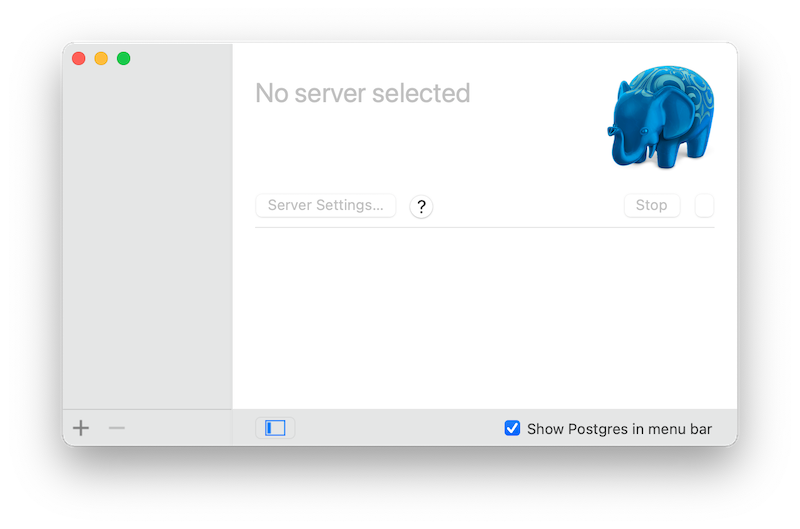
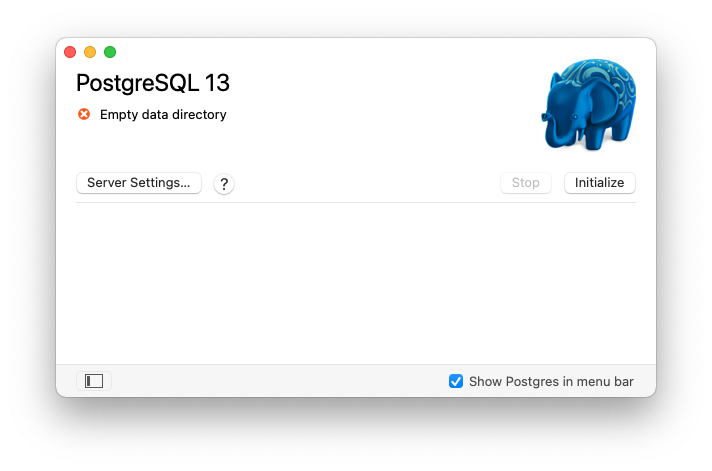
Revised Postgres installation instructions for Mac (Postgres.app 2.4.3).

diff --git a/install-software/installation-mac.md b/install-software/installation-mac.md
@@ -2,21 +2,21 @@
 
 ## Installing R and RStudio
 
-For Mac, the R project provides specific installers that are available at [https://cloud.r-project.org/](https://cloud.r-project.org/). Download the latest installer for your system (you need at least version 4.0), execute it by double-clicking on the file, and follow the installation instructions. 
+For Mac, the R project provides specific installers that are available at [https://cloud.r-project.org/](https://cloud.r-project.org/). Download the latest installer for your system (you need at least version 4.1), execute it by double-clicking on the file, and follow the installation instructions. 
 
 To install RStudio, go to the RStudio website at \url{https://www.rstudio.com/products/rstudio/download/}. There are different versions, the "free" version is sufficient for our purpose. Download the installer, run this file and follow the installation instructions. You should now have R and RStudio installed on your computer. 
 
 ## Installing PostgreSQL and the PostGIS extension
 
-To run the PostgreSQL database server on a Mac, we rely on the excellent *Postgres.app* installer. This is a pre-packaged version the (open-source) PostgreSQL database system and extremely convenient for Mac users to install. 
+To run the PostgreSQL database server on a Mac, we rely on the excellent *Postgres.app* installer. This is a pre-packaged version the (open-source) PostgreSQL database system and makes the installation extremely convenient for Mac users. 
 
-Download the installer from the [Postgres.app website](https://postgresapp.com/downloads.html). We recommend that you choose version 2.4.1 of Postgres.app, which includes version 13 of the PostgreSQL database server. Conveniently for our purpose, Postgres.app contains also the PostGIS spatial extension for PostgreSQL, which we need in the chapter on spatial data. Run the installer by double-clicking the file you downloaded and simply drag-and-drop Postgres.app into your "Applications" folder.
+Download the installer from the [Postgres.app website](https://postgresapp.com/downloads.html). We recommend that you choose version 2.4.3 of Postgres.app, which includes version 13 of the PostgreSQL database server. Conveniently for our purpose, Postgres.app contains also the PostGIS spatial extension for PostgreSQL, which we need in the chapter on spatial data. Run the installer by double-clicking the file you downloaded and simply drag-and-drop Postgres.app into your "Applications" folder.
 
 Once this is done, you can run Postgres.app just like any other Mac application, simply by double-clicking on it in the "Applications" folder. The first time you do this you need to initialize a new server, as this is not done automatically. When you start Postgres.app, the following window comes up:
 
 ![](mac-postgres1.png)
 
-At the bottom left, click the little `+` icon to add a server. Enter a name for the new server, for example "Postgres 13". Select version 13, and leave the default values for the data directory and the port (5432) unchanged. Click "Create Server", and you're done. The new server is not running yet, so you need to start it with the corresponding button in Postgres.app. You can now close the Postgres.app main window. The elephant icon in the main menu bar allows you to quickly start/stop your server.
+At the bottom right, click "Initialize" to configure a new server. You can simply leave the default values for the server name etc (unless you already have PostgreSQL or another server running on port 5432, which is unlikely). The new server is started automatically, and you can now close the Postgres.app main window. If you later want to start/stop the new server, you can do this through Postgress.app or the elephant icon in the main menu bar.
 
 When we later connect to our new server from R, we need to provide a user name and a password. Postgres.app automatically configures the server such that is uses your (short) Mac username for this purpose. If you're unsure what this username is, see [Apple's instructions](https://support.apple.com/en-ae/guide/mac-help/mh35548/11.0/mac/11.0) to find out. By default, there is no password for this user. 
 

diff --git a/install-software/installation-windows.md b/install-software/installation-windows.md
@@ -2,7 +2,7 @@
 
 ## Installing R and RStudio
 
-For Windows, the R project provides specific installers that are available at [https://cloud.r-project.org/](https://cloud.r-project.org/). Download the latest installer for your system (you need at least version 4.0), execute it by double-clicking on the file, and follow the installation instructions. 
+For Windows, the R project provides specific installers that are available at [https://cloud.r-project.org/](https://cloud.r-project.org/). Download the latest installer for your system (you need at least version 4.1), execute it by double-clicking on the file, and follow the installation instructions. 
 
 To install RStudio, go to the RStudio website at \url{https://www.rstudio.com/products/rstudio/download/}. There are different versions, the "free" version is sufficient for our purpose. Download the installer, run this file and follow the installation instructions. You should now have R and RStudio installed on your computer. 
 
